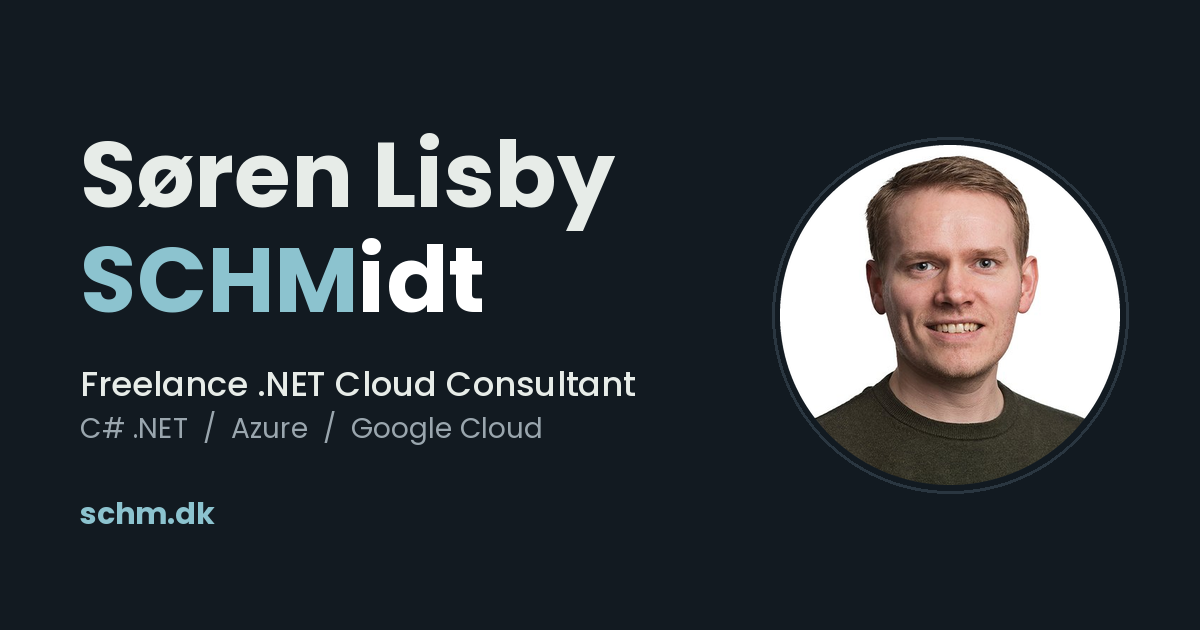
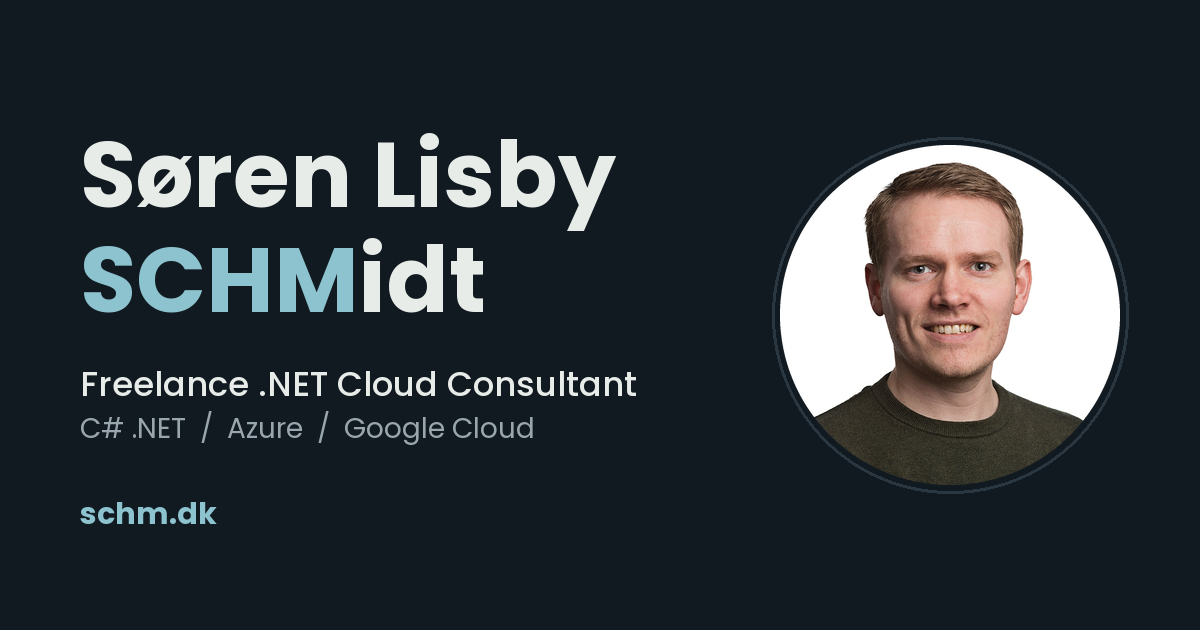
Add image generator and match the name colors
"idt" was pure white in dark mode and in the images, while the rest of
the name used the ink color. It now uses ink everywhere.

Adds branding/make_images.py, which generates the social banner and
the LinkedIn cover. The banner now uses branding/foto.png, cropped
wider than the old headshot. Image sources live in branding/, since
the page doesn't use them; social-banner.png stays in the root, where
og:image points.

diff --git a/index.html b/index.html
@@ -30,7 +30,6 @@
     --muted: #5A6570;
     --rule: #D6DCD6;
     --accent: #1F4E5A;
-    --name-rest: var(--ink);
     --sans: "Schibsted Grotesk", "Helvetica Neue", Arial, sans-serif;
     --serif: "Newsreader", Georgia, "Times New Roman", serif;
     box-sizing: border-box;
@@ -45,14 +44,13 @@
       --muted: #9AA6AE;
       --rule: #2A3640;
       --accent: #8CC3CF;
-      --name-rest: #FFFFFF;
     }
   }
   :root[data-theme="light"] { color-scheme: light; }
   :root[data-theme="dark"] {
     color-scheme: dark;
     --paper: #121A21; --ink: #E7ECE8; --muted: #9AA6AE; --rule: #2A3640;
-    --accent: #8CC3CF; --name-rest: #FFFFFF;
+    --accent: #8CC3CF;
   }
   *, *::before, *::after { box-sizing: inherit; }
   html { scroll-padding-top: env(safe-area-inset-top, 0px); }
@@ -138,7 +136,7 @@
     text-transform: uppercase;
     letter-spacing: -0.01em;
   }
-  h1 .rest { color: var(--name-rest); }
+  h1 .rest { color: var(--ink); }
   .company {
     margin: -0.5rem 0 1.75rem;
     color: var(--muted);

diff --git a/branding/make_images.py b/branding/make_images.py
@@ -1,0 +1,97 @@
+"""
+Generates the schm.dk images:
+  ../social-banner.png  1200x630  link previews (og:image), served from the site root
+  linkedin-cover.png  3168x792  LinkedIn cover (4:1, 2x of 1584x396)
+
+Requirements:
+  pip install pillow
+  Poppins font files (Bold, Medium, Regular) from https://fonts.google.com/specimen/Poppins
+  foto.png next to this script (used in the social banner)
+
+Usage:
+  python make_images.py
+"""
+from pathlib import Path
+from PIL import Image, ImageDraw, ImageFont
+
+HERE = Path(__file__).parent
+SITE = HERE.parent  # the web root, where social-banner.png is served from
+FONT_DIR = HERE / "fonts"          # put Poppins-*.ttf here, or change this path
+PORTRAIT = HERE / "foto.png"
+
+# Colors match the dark theme of index.html
+BG = (18, 26, 33)
+INK = (231, 236, 232)
+MUTED = (154, 166, 174)
+ACCENT = (140, 195, 207)
+RING = (42, 54, 64)
+
+TITLE = "Freelance .NET Cloud Consultant"
+STACK = "C# .NET  /  Azure  /  Google Cloud"
+DOMAIN = "schm.dk"
+
+
+def font(weight, size):
+    return ImageFont.truetype(str(FONT_DIR / f"Poppins-{weight}.ttf"), int(size))
+
+
+def social_banner(out=SITE / "social-banner.png"):
+    W, H = 1200, 630
+    im = Image.new("RGB", (W, H), BG)
+    d = ImageDraw.Draw(im)
+    x, o = 80, -40
+
+    name = font("Bold", 92)
+    d.text((x, 150 + o), "Søren Lisby", font=name, fill=INK)
+    d.text((x, 255 + o), "SCHM", font=name, fill=ACCENT)
+    d.text((x + d.textlength("SCHM", font=name), 255 + o), "idt", font=name, fill=INK)
+    d.text((x, 400 + o), TITLE, font=font("Medium", 34), fill=INK)
+    d.text((x, 448 + o), STACK, font=font("Regular", 28), fill=MUTED)
+    d.text((x, 532 + o), DOMAIN, font=font("Bold", 30), fill=ACCENT)
+
+    # Round portrait on the right
+    S = 340
+    src = Image.open(PORTRAIT).convert("RGB")
+    side = min(src.size) / 1.2  # 1.2 = zoom; centred on the face, which sits at ~52% x, ~53% y
+    cx, cy = src.width * 0.52, src.height * 0.53
+    cy = min(max(cy, side / 2), src.height - side / 2)
+    p = src.crop((cx - side / 2, cy - side / 2, cx + side / 2, cy + side / 2)).resize((S, S), Image.LANCZOS)
+    mask = Image.new("L", (S * 4, S * 4), 0)
+    ImageDraw.Draw(mask).ellipse((0, 0, S * 4 - 1, S * 4 - 1), fill=255)
+    mask = mask.resize((S, S), Image.LANCZOS)  # supersampled for smooth edges
+    px, py = W - 80 - S, (H - S) // 2
+    d.ellipse((px - 8, py - 8, px + S + 8, py + S + 8), outline=RING, width=3)
+    im.paste(p, (px, py), mask)
+
+    im.save(out, optimize=True)
+
+
+def linkedin_cover(out=HERE / "linkedin-cover.png", k=2):
+    # k=2 renders at twice LinkedIn's recommended 1584x396 for sharpness
+    W, H = 1584 * k, 396 * k
+    im = Image.new("RGB", (W, H), BG)
+    d = ImageDraw.Draw(im)
+    R = W - 110 * k  # right edge; text is right-aligned, clear of the profile photo
+
+    def right(y, text, f, fill):
+        d.text((R - d.textlength(text, font=f), y * k), text, font=f, fill=fill)
+
+    name = font("Bold", 76 * k)
+    parts = [("Søren Lisby ", INK), ("SCHM", ACCENT), ("idt", INK)]
+    x = R - sum(d.textlength(t, font=name) for t, _ in parts)
+    for text, color in parts:
+        d.text((x, 66 * k), text, font=name, fill=color)
+        x += d.textlength(text, font=name)
+
+    right(180, TITLE, font("Medium", 34 * k), INK)
+    right(230, STACK, font("Regular", 28 * k), MUTED)
+    d.line((R - 60 * k, 294 * k, R, 294 * k), fill=ACCENT, width=3 * k)
+    right(308, DOMAIN, font("Bold", 30 * k), ACCENT)
+
+    im.save(out, optimize=True)
+
+
+if __name__ == "__main__":
+    social_banner()
+    linkedin_cover()
+    print("Wrote social-banner.png and linkedin-cover.png")

diff --git a/README.md b/README.md
@@ -11,7 +11,7 @@ One static page. No build step, no dependencies: everything the page needs is in
 | `index.html` | The whole site |
 | `soren.jpg` | Portrait used in the hero |
 | `social-banner.png` | 1200×630 Open Graph image for link previews |
-| `linkedin-cover.png` | 4:1 LinkedIn profile cover |
+| `branding/` | Not used by the page: `make_images.py` generates `social-banner.png` and `branding/linkedin-cover.png` (LinkedIn cover) from `branding/foto.png` |
 | `CNAME` | Custom domain for GitHub Pages |
 
 Pushing to `main` deploys to GitHub Pages.
